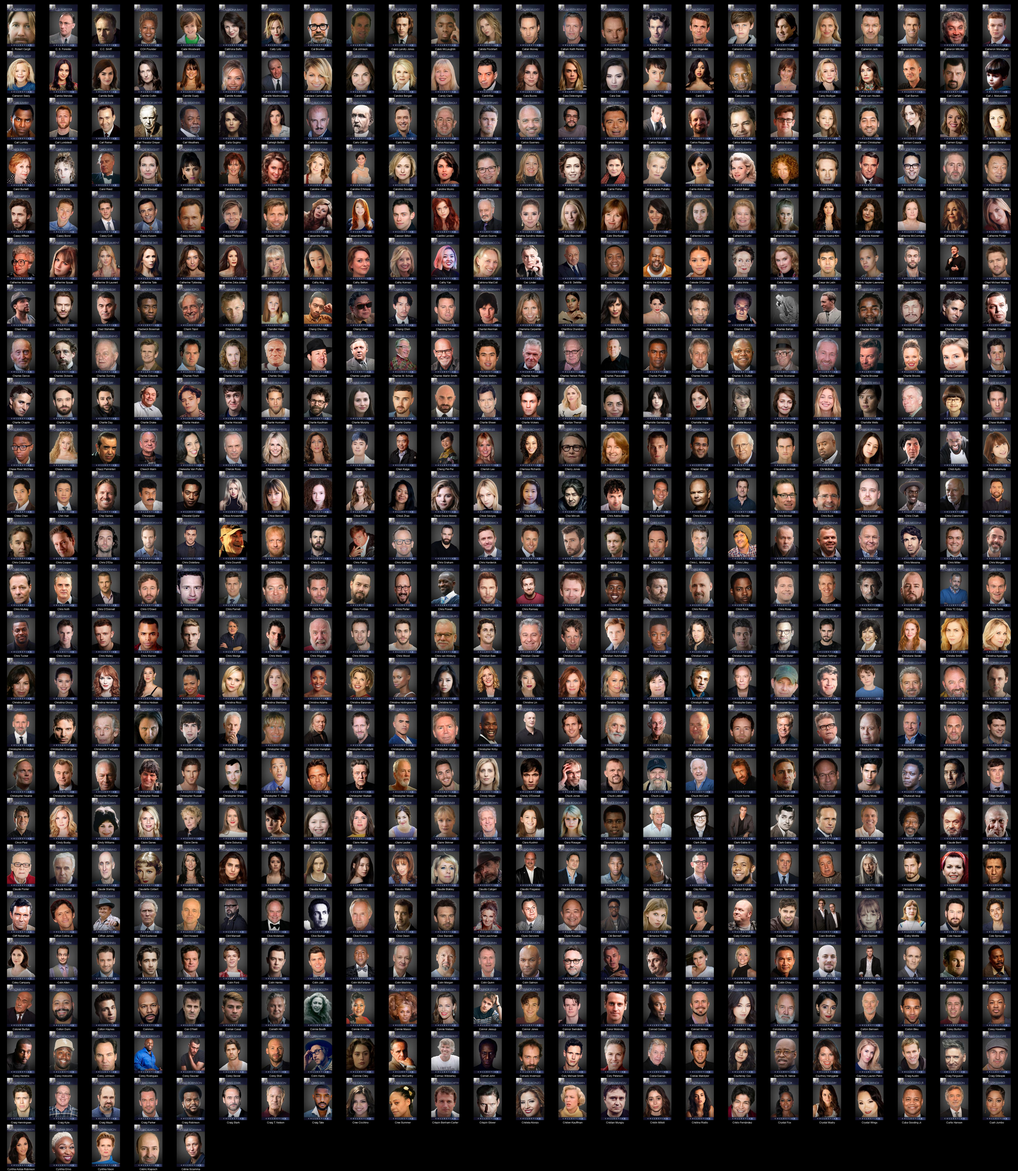
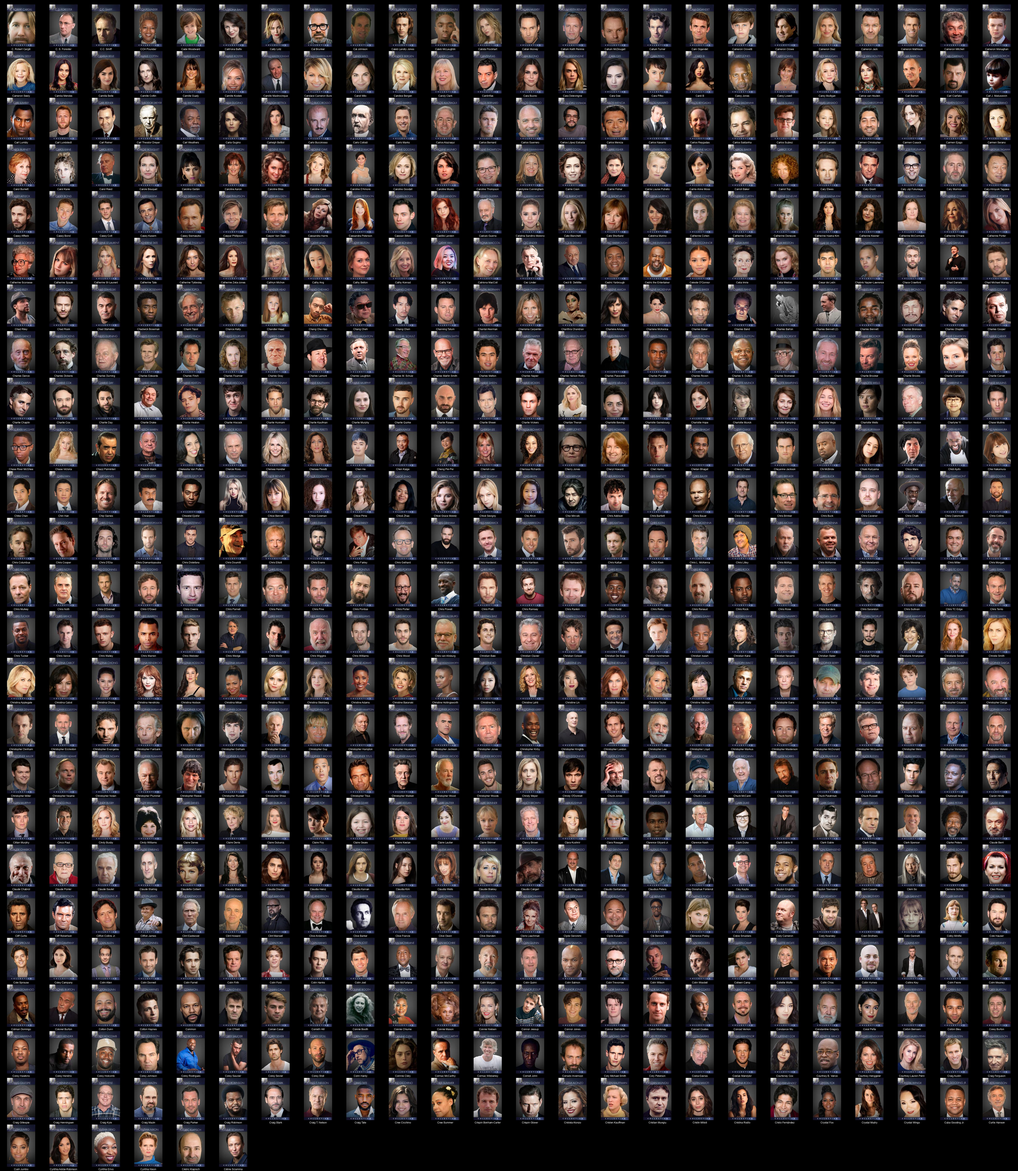
Readme Update

Changed region(s): [[0.0, 0.5297, 1.0, 1.0]]

diff --git a/README.md b/README.md
@@ -1,4 +1,4 @@
-# Plex Meta Manager People - DIIIVOY Color (diiivoycolor) (8759 Images)
+# Plex Meta Manager People - DIIIVOY Color (diiivoycolor) (8761 Images)
 
 <details><summary><a href="'">' (1 Images)</a></summary>
 
@@ -1183,7 +1183,7 @@
 * [Béla Tarr](https://raw.githubusercontent.com/meisnate12/Plex-Meta-Manager-People-diiivoycolor/master/B/Images/B%C3%A9la%20Tarr.jpg)
 * [Bérénice Bejo](https://raw.githubusercontent.com/meisnate12/Plex-Meta-Manager-People-diiivoycolor/master/B/Images/B%C3%A9r%C3%A9nice%20Bejo.jpg)
 </details>
-<details><summary><a href="C">C (581 Images)</a></summary>
+<details><summary><a href="C">C (582 Images)</a></summary>
 
 * [C. Robert Cargill](https://raw.githubusercontent.com/meisnate12/Plex-Meta-Manager-People-diiivoycolor/master/C/Images/C.%20Robert%20Cargill.jpg)
 * [C. S. Forester](https://raw.githubusercontent.com/meisnate12/Plex-Meta-Manager-People-diiivoycolor/master/C/Images/C.%20S.%20Forester.jpg)
@@ -1511,6 +1511,7 @@
 * [Christian Bale](https://raw.githubusercontent.com/meisnate12/Plex-Meta-Manager-People-diiivoycolor/master/C/Images/Christian%20Bale.jpg)
 * [Christian Clavier](https://raw.githubusercontent.com/meisnate12/Plex-Meta-Manager-People-diiivoycolor/master/C/Images/Christian%20Clavier.jpg)
 * [Christian Colson](https://raw.githubusercontent.com/meisnate12/Plex-Meta-Manager-People-diiivoycolor/master/C/Images/Christian%20Colson.jpg)
+* [Christian De Sica](https://raw.githubusercontent.com/meisnate12/Plex-Meta-Manager-People-diiivoycolor/master/C/Images/Christian%20De%20Sica.jpg)
 * [Christian Hutcherson](https://raw.githubusercontent.com/meisnate12/Plex-Meta-Manager-People-diiivoycolor/master/C/Images/Christian%20Hutcherson.jpg)
 * [Christian Isaiah](https://raw.githubusercontent.com/meisnate12/Plex-Meta-Manager-People-diiivoycolor/master/C/Images/Christian%20Isaiah.jpg)
 * [Christian Kane](https://raw.githubusercontent.com/meisnate12/Plex-Meta-Manager-People-diiivoycolor/master/C/Images/Christian%20Kane.jpg)
@@ -8014,7 +8015,7 @@
 * [Søren Pilmark](https://raw.githubusercontent.com/meisnate12/Plex-Meta-Manager-People-diiivoycolor/master/S/Images/S%C3%B8ren%20Pilmark.jpg)
 * [Sō Yamanaka](https://raw.githubusercontent.com/meisnate12/Plex-Meta-Manager-People-diiivoycolor/master/S/Images/S%C5%8D%20Yamanaka.jpg)
 </details>
-<details><summary><a href="T">T (419 Images)</a></summary>
+<details><summary><a href="T">T (420 Images)</a></summary>
 
 * [T. J. Miller](https://raw.githubusercontent.com/meisnate12/Plex-Meta-Manager-People-diiivoycolor/master/T/Images/T.%20J.%20Miller.jpg)
 * [T. Love](https://raw.githubusercontent.com/meisnate12/Plex-Meta-Manager-People-diiivoycolor/master/T/Images/T.%20Love.jpg)
@@ -8038,6 +8039,7 @@
 * [Tam White](https://raw.githubusercontent.com/meisnate12/Plex-Meta-Manager-People-diiivoycolor/master/T/Images/Tam%20White.jpg)
 * [Tamannaah Bhatia](https://raw.githubusercontent.com/meisnate12/Plex-Meta-Manager-People-diiivoycolor/master/T/Images/Tamannaah%20Bhatia.jpg)
 * [Tamara Smart](https://raw.githubusercontent.com/meisnate12/Plex-Meta-Manager-People-diiivoycolor/master/T/Images/Tamara%20Smart.jpg)
+* [Tamer Burjaq](https://raw.githubusercontent.com/meisnate12/Plex-Meta-Manager-People-diiivoycolor/master/T/Images/Tamer%20Burjaq.jpg)
 * [Tamera Mowry-Housley](https://raw.githubusercontent.com/meisnate12/Plex-Meta-Manager-People-diiivoycolor/master/T/Images/Tamera%20Mowry-Housley.jpg)
 * [Tami Sagher](https://raw.githubusercontent.com/meisnate12/Plex-Meta-Manager-People-diiivoycolor/master/T/Images/Tami%20Sagher.jpg)
 * [Tammy Blanchard](https://raw.githubusercontent.com/meisnate12/Plex-Meta-Manager-People-diiivoycolor/master/T/Images/Tammy%20Blanchard.jpg)

diff --git a/C/README.md b/C/README.md
@@ -1,4 +1,4 @@
-# Plex Meta Manager People - DIIIVOY Color (diiivoycolor) - C (581 Images)
+# Plex Meta Manager People - DIIIVOY Color (diiivoycolor) - C (582 Images)
 ![Grid](grid.jpg)
 
 * [C. Robert Cargill](https://raw.githubusercontent.com/meisnate12/Plex-Meta-Manager-People-diiivoycolor/master/C/Images/C.%20Robert%20Cargill.jpg)
@@ -327,6 +327,7 @@
 * [Christian Bale](https://raw.githubusercontent.com/meisnate12/Plex-Meta-Manager-People-diiivoycolor/master/C/Images/Christian%20Bale.jpg)
 * [Christian Clavier](https://raw.githubusercontent.com/meisnate12/Plex-Meta-Manager-People-diiivoycolor/master/C/Images/Christian%20Clavier.jpg)
 * [Christian Colson](https://raw.githubusercontent.com/meisnate12/Plex-Meta-Manager-People-diiivoycolor/master/C/Images/Christian%20Colson.jpg)
+* [Christian De Sica](https://raw.githubusercontent.com/meisnate12/Plex-Meta-Manager-People-diiivoycolor/master/C/Images/Christian%20De%20Sica.jpg)
 * [Christian Hutcherson](https://raw.githubusercontent.com/meisnate12/Plex-Meta-Manager-People-diiivoycolor/master/C/Images/Christian%20Hutcherson.jpg)
 * [Christian Isaiah](https://raw.githubusercontent.com/meisnate12/Plex-Meta-Manager-People-diiivoycolor/master/C/Images/Christian%20Isaiah.jpg)
 * [Christian Kane](https://raw.githubusercontent.com/meisnate12/Plex-Meta-Manager-People-diiivoycolor/master/C/Images/Christian%20Kane.jpg)

diff --git a/T/README.md b/T/README.md
@@ -1,4 +1,4 @@
-# Plex Meta Manager People - DIIIVOY Color (diiivoycolor) - T (419 Images)
+# Plex Meta Manager People - DIIIVOY Color (diiivoycolor) - T (420 Images)
 ![Grid](grid.jpg)
 
 * [T. J. Miller](https://raw.githubusercontent.com/meisnate12/Plex-Meta-Manager-People-diiivoycolor/master/T/Images/T.%20J.%20Miller.jpg)
@@ -23,6 +23,7 @@
 * [Tam White](https://raw.githubusercontent.com/meisnate12/Plex-Meta-Manager-People-diiivoycolor/master/T/Images/Tam%20White.jpg)
 * [Tamannaah Bhatia](https://raw.githubusercontent.com/meisnate12/Plex-Meta-Manager-People-diiivoycolor/master/T/Images/Tamannaah%20Bhatia.jpg)
 * [Tamara Smart](https://raw.githubusercontent.com/meisnate12/Plex-Meta-Manager-People-diiivoycolor/master/T/Images/Tamara%20Smart.jpg)
+* [Tamer Burjaq](https://raw.githubusercontent.com/meisnate12/Plex-Meta-Manager-People-diiivoycolor/master/T/Images/Tamer%20Burjaq.jpg)
 * [Tamera Mowry-Housley](https://raw.githubusercontent.com/meisnate12/Plex-Meta-Manager-People-diiivoycolor/master/T/Images/Tamera%20Mowry-Housley.jpg)
 * [Tami Sagher](https://raw.githubusercontent.com/meisnate12/Plex-Meta-Manager-People-diiivoycolor/master/T/Images/Tami%20Sagher.jpg)
 * [Tammy Blanchard](https://raw.githubusercontent.com/meisnate12/Plex-Meta-Manager-People-diiivoycolor/master/T/Images/Tammy%20Blanchard.jpg)
